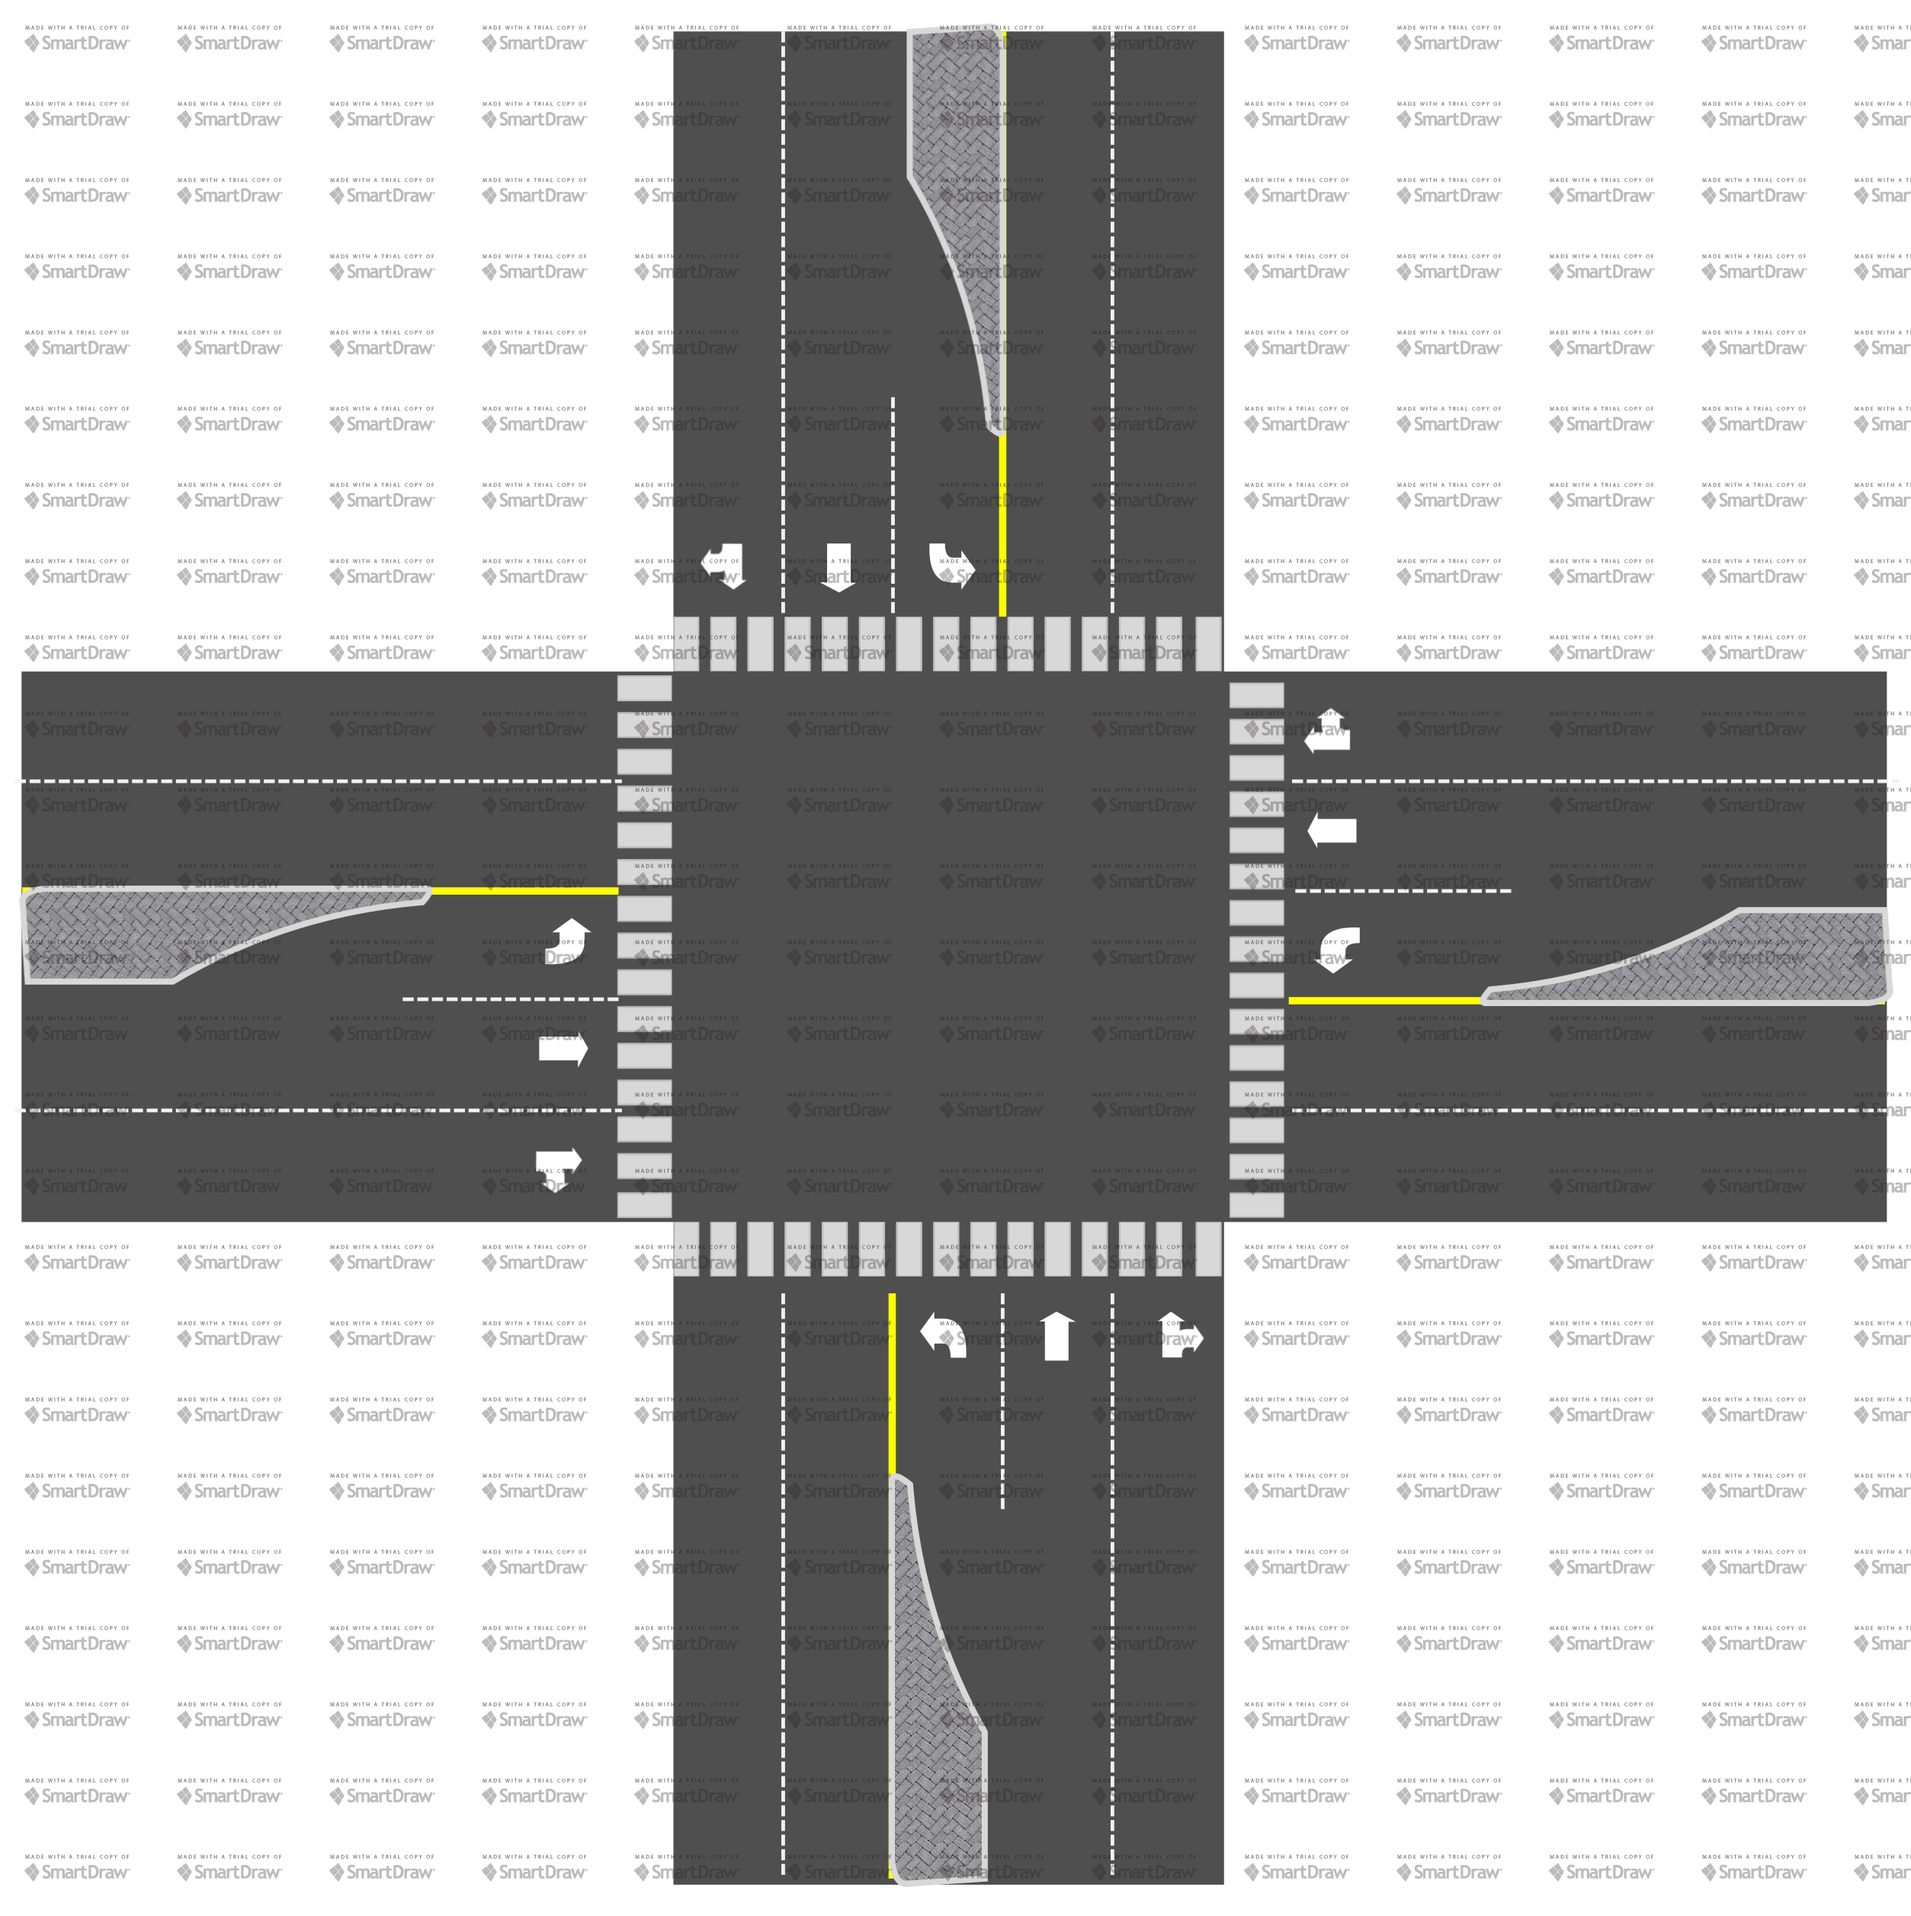
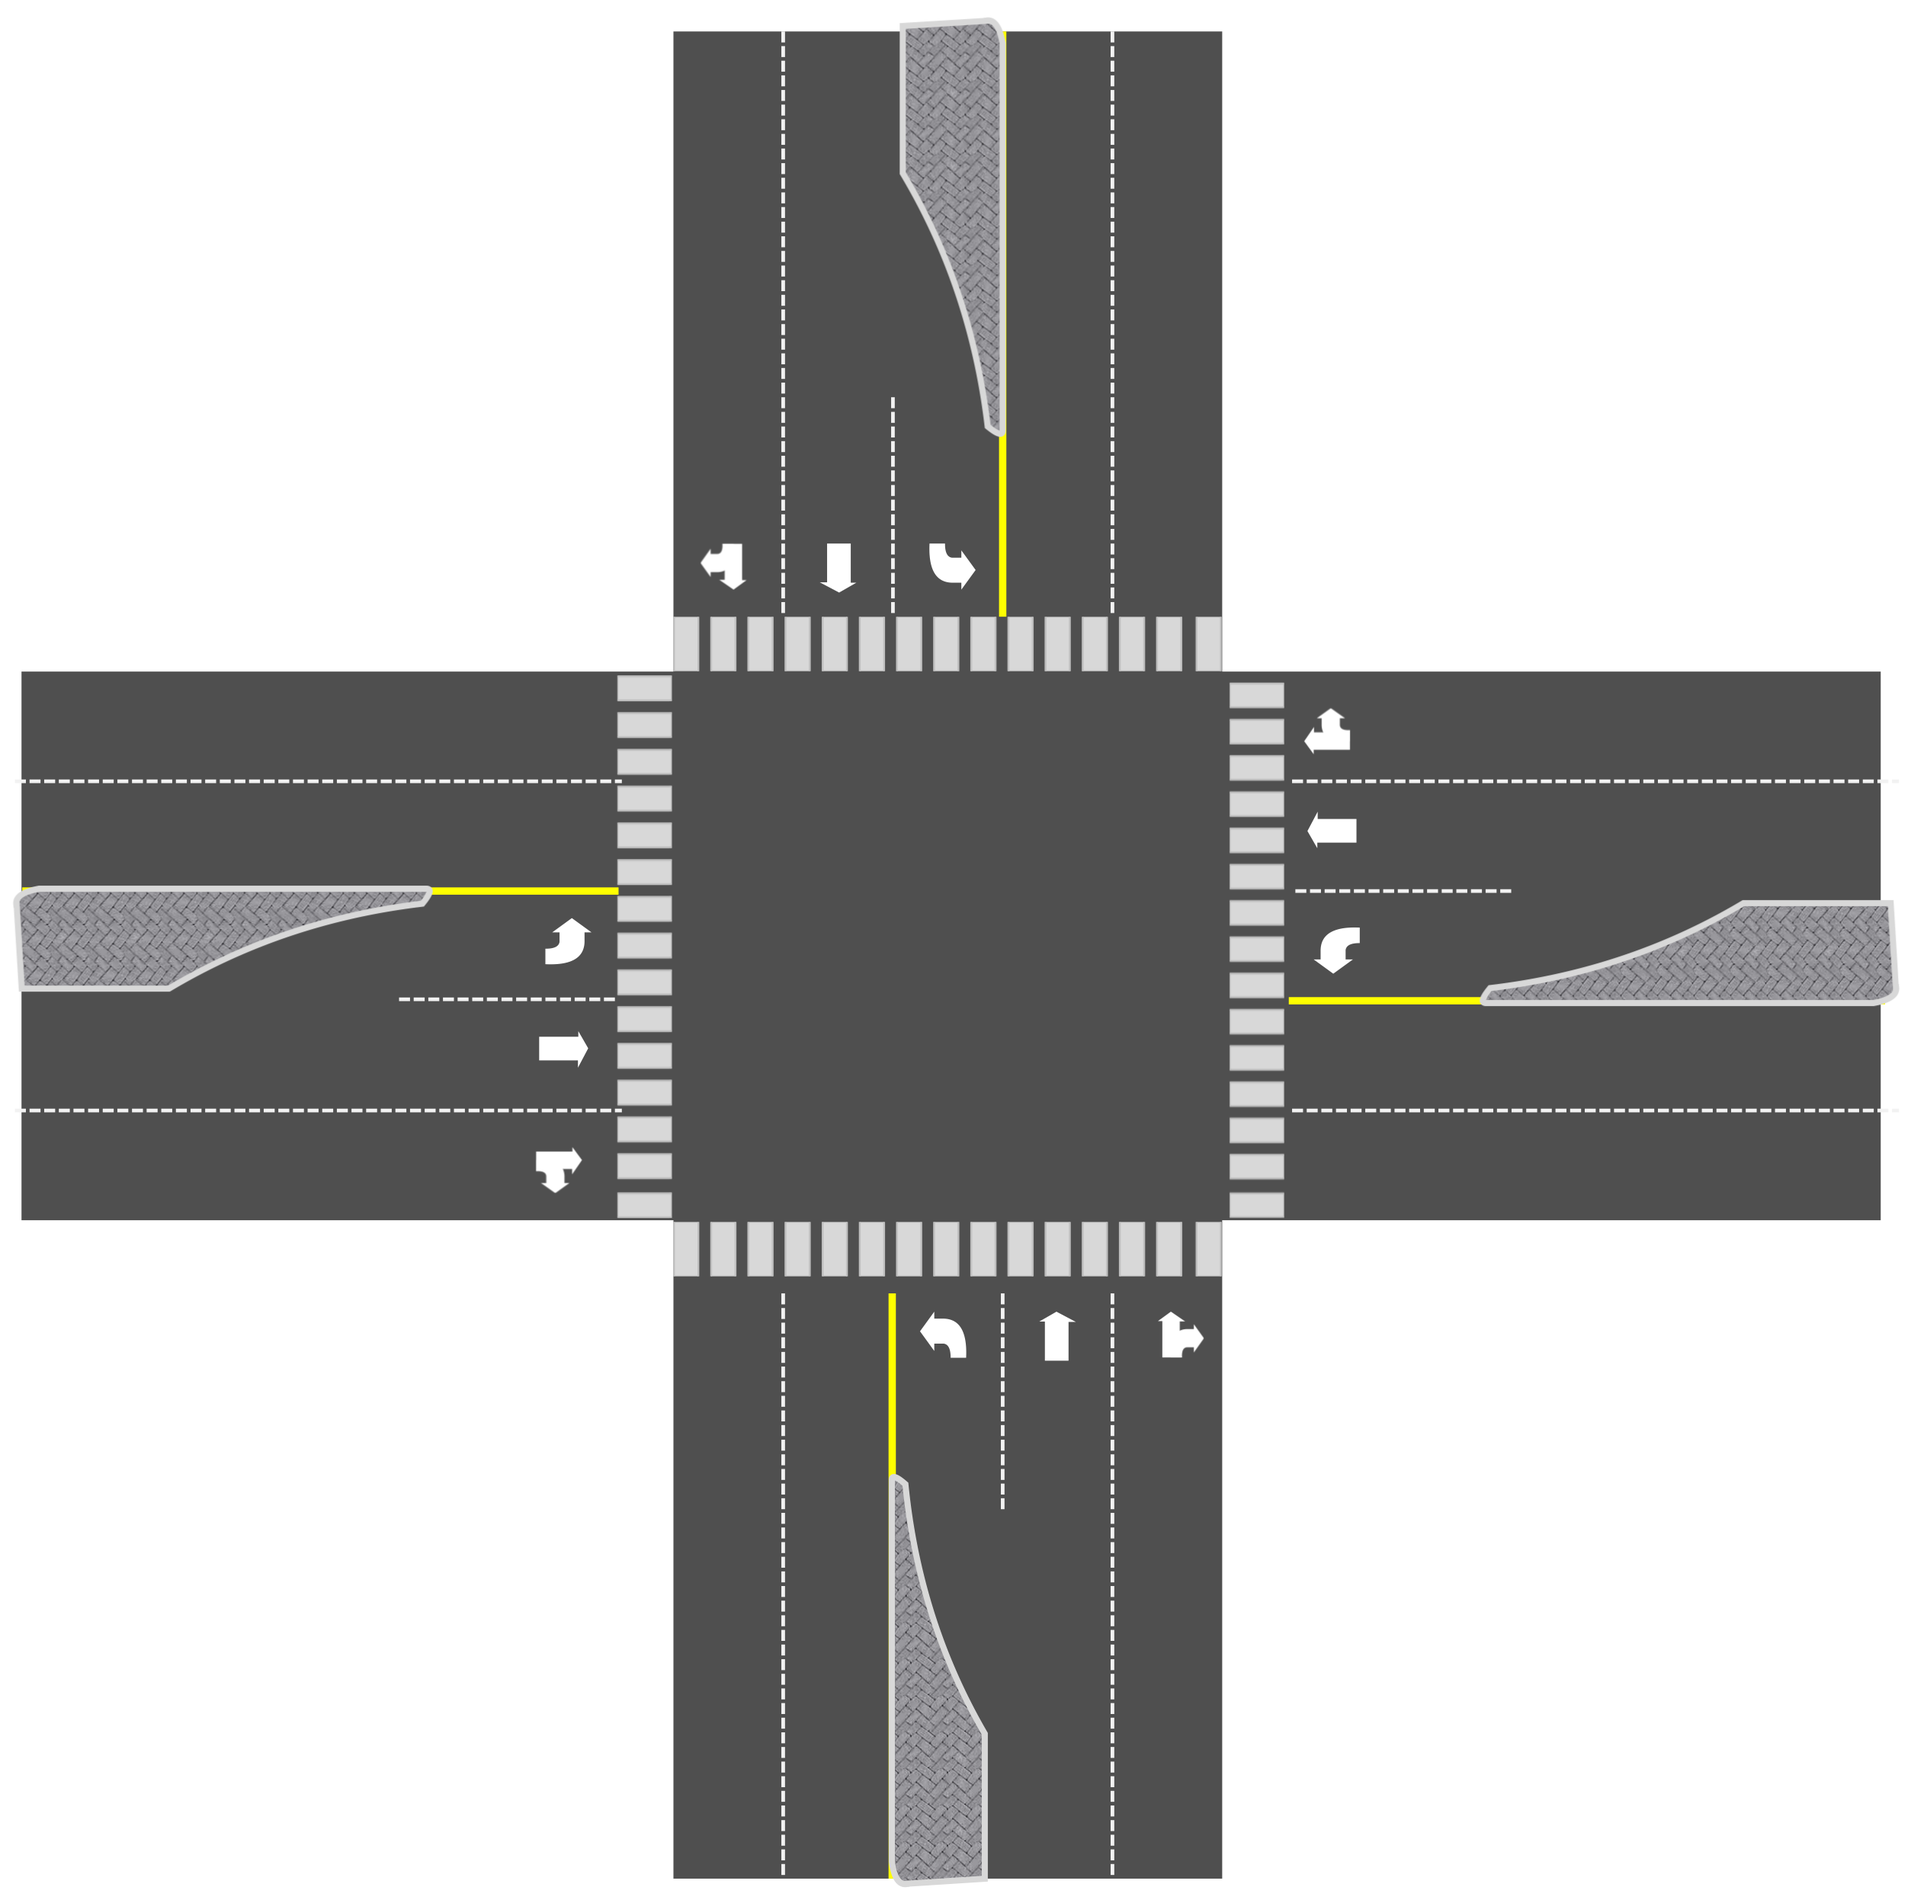
Added graphics for traffic light

diff --git a/src/simulator/SimulatorManager.java b/src/simulator/SimulatorManager.java
@@ -122,7 +122,7 @@ public class SimulatorManager {
 		this.g = g;
 	}
 	
-	public void tick()
+	public synchronized void tick()
 	{
 		for (MotorVehicle m : motors.values())
 		{
@@ -130,7 +130,7 @@ public class SimulatorManager {
 		}
 	}
 	
-	public void addCar(int lane, Direction dir, Track track, boolean simulated)
+	public synchronized void addCar(int lane, Direction dir, Track track, boolean simulated)
 	{
 		if (simulated)
 		{
@@ -157,30 +157,39 @@ public class SimulatorManager {
 		}
 	}
 	
-	public void removeCar(Track track)
+	//comment out if you do not want to remove cars from video feed
+	public synchronized void removeCar(Track track)
 	{
 		motors.remove(track.track_id);
 	}
 	
-	public void updateCar(Track track)
+	//comment out if you do not want to updatecar location from video feed
+	public synchronized void updateCar(Track track)
 	{
+		
 		motors.get(track.track_id).updateTrack(track);
 		
 		// notify observers of update
 		motors.get(track.track_id).notifyObservers();
+		
 	}
 	
 	
 	//method render to set graphic location and size
 	public void render(Graphics g){
+		
 		//render background image
 		g.drawImage(loadImage.fullImage,0,0,600,600,null);
+		//g.drawImage(loadImage.redLight,410,167,40,40,null);
 		
 		//render  vehicles
-		for (MotorVehicle mv : motors.values())
-		{
-			mv.render(g);
+		synchronized(this){
+			for (MotorVehicle mv : motors.values())
+			{
+				mv.render(g);
+			}
 		}
+		
 		
 	}
 }

diff --git a/src/observer/SimulatorObserver.java b/src/observer/SimulatorObserver.java
@@ -1,13 +1,19 @@
 package observer;
 
 import simulator.SimulatorManager;
+
+import org.opencv.core.Point;
+
 import observer.TrackUpdateObservable.TrackUpdate;
 import simulator.MotorVehicle.Direction;
+import tracking.SimulatedTrack;
 import tracking.Track;
+
 
 public class SimulatorObserver implements TrackObserver{
 
 	SimulatorManager simulator;
+	int simulatedCarsCounter = 6000;
 	
 	public SimulatorObserver(SimulatorManager sim)
 	{
@@ -24,17 +30,29 @@ public class SimulatorObserver implements TrackObserver{
 //				track.lane,
 //				track.getDistChange().x,
 //				track.getDistChange().y);
+		SimulatedTrack strack;
+		
 		
 		switch (updateType)
 		{
 			case ADDED:
-				simulator.addCar(track.lane, Direction.SOUTH, track, false);
+				strack = new SimulatedTrack(  
+						new Point(0,0),
+						simulatedCarsCounter++,
+						Direction.SOUTH,
+						.05);
+				//simulator.addCar(track.lane, Direction.SOUTH, track, false);
+				simulator.addCar(
+						track.lane, 
+						Direction.SOUTH, 
+						strack, 
+						true);
 				break;
 			case REMOVED:
-				simulator.removeCar(track);
+				//simulator.removeCar(strack);
 				break;
 			case UPDATED:
-				simulator.updateCar(track);
+				//simulator.updateCar(strack);
 				break;
 			default:
 				break;

diff --git a/src/simulator/loadImage.java b/src/simulator/loadImage.java
@@ -1,5 +1,7 @@
 package simulator;
 
+import java.awt.geom.AffineTransform;
+import java.awt.image.AffineTransformOp;
 import java.awt.image.BufferedImage;
 import java.io.IOException;
 
@@ -7,14 +9,26 @@ import javax.imageio.ImageIO;
 
 public class loadImage {
 
-	public static BufferedImage fullImage, upCarImage, downCarImage, rightCarImage, leftCarImage;
+	public static BufferedImage 
+		fullImage, 
+		upCarImage, 
+		downCarImage, 
+		rightCarImage, 
+		leftCarImage,
+		greenLight,
+		yellowLight,
+		redLight;
 	
 	public static void init(){
-		fullImage = imageLoader("/Intersection-4_way-5_lanes.png");
+		//fullImage = imageLoader("/Intersection-4_way-5_lanes.png");
+		fullImage = imageLoader("/Intersection2.png");
 		upCarImage = imageLoader("/upCar.png");
 		downCarImage = imageLoader("/downCar.png");
 		rightCarImage = imageLoader("/rightCar.png");
 		leftCarImage = imageLoader("/leftCar.png");
+		greenLight = imageLoader("/green.png");
+		yellowLight = imageLoader("/yellow.png");
+		redLight = imageLoader("/red.png");
 		//crop();
 	}
 	
@@ -28,6 +42,7 @@ public class loadImage {
 		}
 		return null;	
 	}
+	
 	
 	/*
 	 * Use this method to crop images

diff --git a/src/simulator/Config.java b/src/simulator/Config.java
@@ -45,6 +45,18 @@ public class Config {
 		{westBoundLane1, westBoundLane2}
 	};
 	
+	// Traffic Light Bulb locations & parameters
+	public static double bulbHeight = 40;
+	public static double bulbWidth = 40;
+	public static double bulbDistance = 30;
+	//red light bulb points
+	public static Point northLight = new Point (382, 380);
+	public static Point southLight = new Point (165, 170);
+	public static Point eastLight = new Point (170, 385);
+	public static Point westLight = new Point (380, 167);
+	
+	
+	
 	// TrafficController settings
 	public static boolean doTrafficControllerLogging = true;			// if true, runtime metrics are logged to console
 	public static boolean doTrafficControllerTrackEventLogging = false;	// if true, observer events are logged to console

diff --git a/src/application/Main.java b/src/application/Main.java
@@ -59,6 +59,7 @@ public class Main extends Application {
 					}
 				};
 				
+				
 				// start the simulator
 				simulator.start();
 			}
